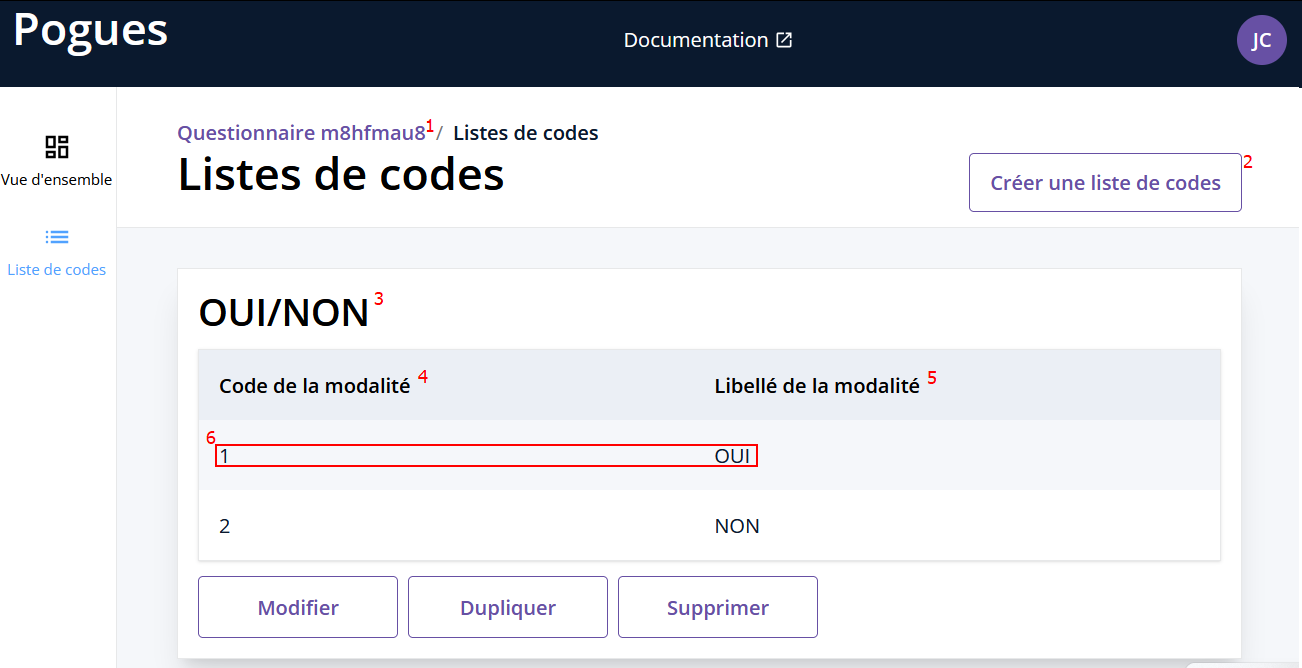
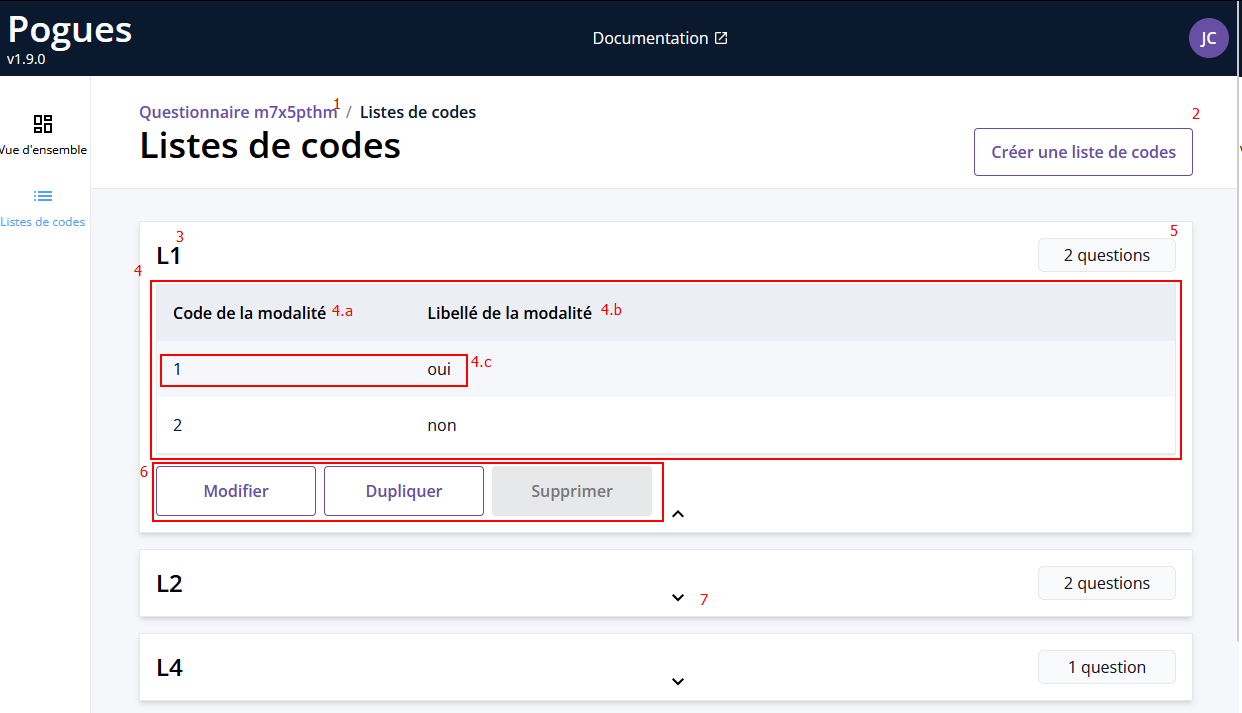
add new UI code list

diff --git a/bowiedocs/docs/1._Pogues/🚀_Guide/14-liste-codes.md b/bowiedocs/docs/1._Pogues/🚀_Guide/14-liste-codes.md
@@ -5,15 +5,22 @@ On accède aux différentes listes de codes via le bouton sur la gauche
 ![alt text](../../img/pogues/list-code-menu.png)
 
 On arrive ensuite sur la page de gestion des listes de codes du questionnaire
-
 ![list code home](../../img/pogues/list-code-home.png)
 !!! abstract "Légende"
     1. `Identifiant` du questionnaire
     1. `Bouton de création` d'une nouvelle liste de codes
-    1. `Nom` d'une liste de code
-    1. Colonne associée au `Code` des différentes modalités
-    1. Colonne associée au `Libellé` des différentes modalités
-    1. Une `Modalité` avec ses valeurs associées (`Code` et `Libellé`)
+    1. `Nom` d'une liste de codes
+    1. `Liste de codes`
+        1. Colonne associée au `Code` des différentes modalités
+        1. Colonne associée au `Libellé` des différentes modalités
+        1. Une `Modalité` avec ses valeurs associées (`Code` et `Libellé`)
+    1. `Nombre de question` utilisant cette liste de codes
+        
+        !!! tip "Un clique ou un survol permet d'afficher la liste des questions."
+    1. Bouton pour `Modifier`, `Dupliquer` ou `Supprimer` une liste de codes.
+        
+        !!! warning "La suppression est grisée car on na peut supprimer une liste de codes utilisée par des questions."
+    1. Flèche permettant de visualiser le `détail` d'une liste de codes en ouvrant la fenêtre (possibilité à l'inverse de la fermée quand cette dernière est déjà ouverte).
 
 ## Gérer les listes de codes
 
@@ -25,7 +32,7 @@ Après avoir appuyé sur le bouton de création d'une nouvelle liste de codes, l
 
 ![list code creation](../../img/pogues/list-code-creation.png)
 !!! abstract "Légende"
-    1. `Nom` de la liste de code
+    1. `Nom` de la liste de codes
     1. Une `Modalité`
         - `Code` de la modalité avec un champ texte
         - `Libellé` de la modalité avec un éditeur `VTL`
@@ -35,7 +42,7 @@ Après avoir appuyé sur le bouton de création d'une nouvelle liste de codes, l
     1. `Créer` (ou `Annuler`) la liste de codes 
 
 !!! warning "Champs requis"
-    Pour créer une liste de code, il faut au moins
+    Pour créer une liste de codes, il faut au moins
     
     - Un nom
     - Une modalité avec un code et un libellé (la formule VTL associée doit être valide)  
@@ -84,12 +91,12 @@ Une fois la liste de codes créée, on revient sur la page principale des listes
 On peut ensuite, sur une liste de codes déjà existante, exécuter les actions suivantes 
 
 - `Modifier` : Accède à la page de modification de liste de codes
-- `Dupliquer` : Crée une copie de la liste de code et l'ajoute en bas de la liste
+- `Dupliquer` : Crée une copie de la liste de codes et l'ajoute en bas de la liste
 - `Supprimer` : Supprime la liste de codes.
 
-    !!! warning "Supprimer une liste de code utilisée dans une question"
-        On ne peut pas supprimer une liste de code utilisée par des questions. La liste des questions concernées sont alors affichées dans une pop-up
-        ![delete list code](../../img/pogues/delete_used_code_list.png)
+    !!! warning "Supprimer une liste de codes utilisée dans une question"
+        On ne peut pas supprimer une liste de codes utilisée par des questions. On peut voir quelles sont les questions concernées et il faut les modifier pour qu'elles n'utilisent plus cette liste de codes. <br>
+        Un liste de codes associée à aucune question peut être supprimée.
 
 ### Utiliser une liste de codes dans un questionnaire 
 Lors de la création d'une question avec réponse à choix unique ou multiple, on peut sélectionner la liste de codes à associer avec le champ `Choisir une liste de codes*`
@@ -113,6 +120,6 @@ Lors de la création d'une question avec réponse à choix unique ou multiple, o
     ![list-code-preciser](../../img/pogues/list-code-preciser-edition.png)
 
 !!! note 
-    La demande de précision n'est pas associée à la liste de codes en elle-même mais bien à la **question qui utilise cette liste de code**.
+    La demande de précision n'est pas associée à la liste de codes en elle-même mais bien à la **question qui utilise cette liste de codes**.
     Ainsi pour une même liste de codes on peut avoir différents `Préciser` définis dans différentes questions.
 
